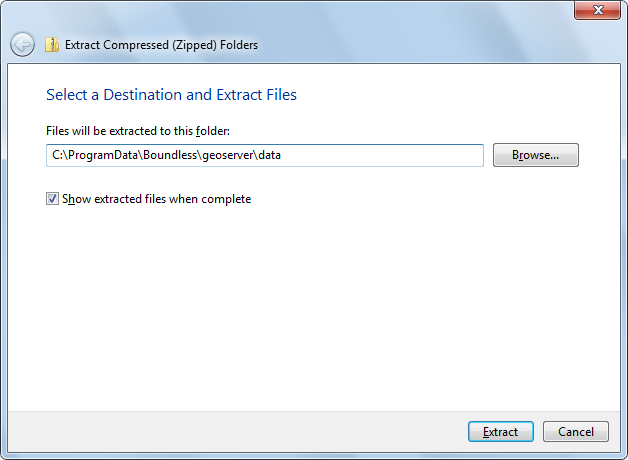
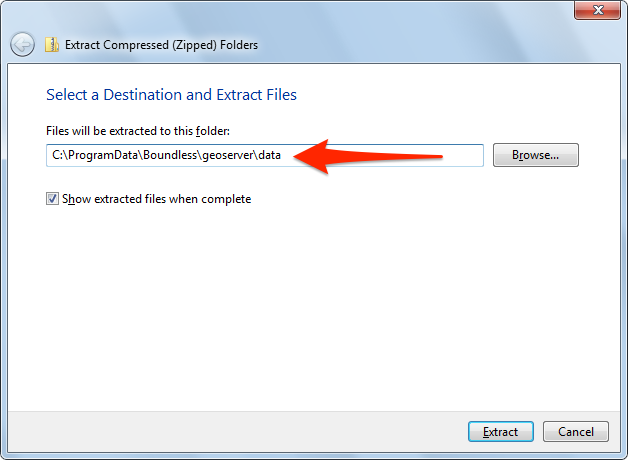
update in response to feedback

Changed region(s): [[0.4538, 0.3043, 0.7261, 0.3957]]

diff --git a/docs/usermanual/source/install/windows/tomcat/geoserver/data.rst b/docs/usermanual/source/install/windows/tomcat/geoserver/data.rst
@@ -18,7 +18,9 @@ Unpacking an empty geoserver data directory into :file:`C:\\ProgramData\\Boundle
       Extract all
 
 3. Type in the following extract location :file:`C:\\ProgramData\\Boundless\\geoserver\\data`.
-
+   
+   .. warning:: Please double check the above path
+   
    .. figure:: ../img/data_extract_destination.png
       :scale: 80% 
       
@@ -31,56 +33,19 @@ Unpacking an empty geoserver data directory into :file:`C:\\ProgramData\\Boundle
       
       New data directory
 
-Upgrading Boundless Suite
--------------------------
+Upgrading
+---------
 
-When upgrading from prior versions be advised that the data directory contents will updated in place when GeoServer is first started. 
+.. warning:: Please uninstall previous releases before proceeding, and be sure to backup your data directory. For more information see :ref:`install.windows.tomcat.before`.
 
-We advise making a backup of this configuration folder prior to upgrading:
+When upgrading make use of your existing data directory:
 
-1. Using :guilabel:`Windows Explorer` navigate to :file:`C:\\ProgramData\\Boundless\\geoserver` to show your :file:`data` directory.
-
-   .. figure:: ../img/upgrade_data.png
-      :scale: 80% 
-      
-      Boundless Suite Data directory
-
-2. Select the ``GEOSERVER_DATA_DIRECTORY`` folder and right click for the :menuselection:`Send to --> Compressed (zipped) folder` action.
-
-   .. figure:: ../img/upgrade_compressed.png
-      :scale: 80% 
-      
-      Compressed (zipped) folder
-      
-3. Confirm the file name for your new backup.
-
-   .. figure:: ../img/upgrade_backup.png
-      :scale: 80% 
-      
-      Backup data directory
-
-4. Your ``GEOSERVER_DATA_DIRECTORY`` in :file:`C:\\ProgramData\\Boundless\\geoserver\\data` can be used as is, the configuration files will be updated in place the first time GeoServer runs.
-
-Upgrading from OpenGeo Suite
-----------------------------
-
-.. warning:: These installation instructions do not cover the migration of PostGIS databases at this time.
-
-We advise making a backup of this configuration folder prior to upgrading:
-
-1. Shutdown all OpenGeo Suite services by navigating to :menuselection:`Start Menu --> All Programs --> OpenGeo Suite` and using the :guilabel:`Stop` shortcuts. 
-
-2. Using :guilabel:`Windows Explorer` navigate to your existing ``GEOSERVER_DATA_DIRECTORY`` located in :file:`C:\\ProgramData\\Boundless\\OpenGeo` .
-
-3. Select the ``GEOSERVER_DATA_DIRECTORY`` folder :file:`geoserver` and right click for the :menuselection:`Send to --> Compressed (zipped) folder` action.
-
-4. Confirm the file name for your new backup.
-
-5. Navigate to :menuselection:`Start Menu --> Programs --> OpenGeo Suite --> Uninstall`.
-
-   .. note:: Uninstallation is also available via the standard Windows program removal workflow (**Programs and Features** Control Panel entry for Windows 7/Vista.)
-
-6. Uninstalling will not delete your settings and data, which by default is located at :file:`C:\\ProgramData\\Boundless\\OpenGeo`:
+* Upgrading from OpenGeo Suite:
    
    * Your ``GEOSERVER_DATA_DIRECTORY`` in :file:`C:\\ProgramData\\Boundless\\OpenGeo\\geoserver` can be used as is, the configuration files will be updated in place the first time GeoServer runs.
    * Optionally, your ``GEOSERVER_DATA_DIRECTORY`` can be moved to :file:`C:\\ProgramData\\Boundless\\geoserver\\data`. If you take this step please review and correct any absolute file references to spatial data stored in ``GEOSERVER_DATA_DIRECTORY``.
+
+* Upgrading from an earlier version of Boundless Suite:
+  
+  * Your ``GEOSERVER_DATA_DIRECTORY`` in :file:`C:\\ProgramData\\Boundless\\geoserver\\data` can be used as is, the configuration files will be updated in place the first time GeoServer runs.
+

diff --git a/docs/usermanual/source/install/windows/tomcat/before.rst b/docs/usermanual/source/install/windows/tomcat/before.rst
@@ -1,0 +1,64 @@
+.. _install.windows.tomcat.before:
+
+Before you start
+================
+
+These instructions cover the installation of Java, the Tomcat Application Server and Boundless Suite components.
+
+When upgrading care must be taken to locate and backup the data directory and remove prior versions of the application.
+
+.. include:: include/sysreq.txt
+
+Upgrading from OpenGeo Suite
+----------------------------
+
+.. warning:: These installation instructions do not cover the migration of PostGIS databases at this time.
+
+We advise making a backup of this configuration folder prior to upgrading:
+
+1. Shutdown all OpenGeo Suite services by navigating to :menuselection:`Start Menu --> All Programs --> OpenGeo Suite` and using the :guilabel:`Stop` shortcuts. 
+
+2. Using :guilabel:`Windows Explorer` navigate to your existing ``GEOSERVER_DATA_DIRECTORY`` located in :file:`C:\\ProgramData\\Boundless\\OpenGeo` .
+
+3. Select the ``GEOSERVER_DATA_DIRECTORY`` folder :file:`geoserver` and right click for the :menuselection:`Send to --> Compressed (zipped) folder` action.
+
+4. Confirm the file name for your new backup.
+
+5. Navigate to :menuselection:`Start Menu --> Programs --> OpenGeo Suite --> Uninstall`.
+
+   .. note:: Uninstallation is also available via the standard Windows program removal workflow (**Programs and Features** Control Panel entry for Windows 7/Vista.)
+
+6. Uninstalling will not delete your settings and data, which by default is located at :file:`C:\\ProgramData\\Boundless\\OpenGeo`:
+   
+   * Your ``GEOSERVER_DATA_DIRECTORY`` in :file:`C:\\ProgramData\\Boundless\\OpenGeo\\geoserver` can be used as is, the configuration files will be updated in place the first time GeoServer runs.
+   * Optionally, your ``GEOSERVER_DATA_DIRECTORY`` can be moved to :file:`C:\\ProgramData\\Boundless\\geoserver\\data`. If you take this step please review and correct any absolute file references to spatial data stored in ``GEOSERVER_DATA_DIRECTORY``.
+
+Upgrading from Boundless Suite
+------------------------------
+
+When upgrading from a **prior version** be advised that the data directory contents will updated in place when GeoServer is first started. 
+
+We advise making a backup of this configuration folder prior to upgrading:
+
+1. Using :guilabel:`Windows Explorer` navigate to :file:`C:\\ProgramData\\Boundless\\geoserver` to show your :file:`data` directory.
+
+   .. figure:: img/upgrade_data.png
+      :scale: 80% 
+      
+      Boundless Suite Data directory
+
+2. Select the ``GEOSERVER_DATA_DIRECTORY`` folder and right click for the :menuselection:`Send to --> Compressed (zipped) folder` action.
+
+   .. figure:: img/upgrade_compressed.png
+      :scale: 80% 
+      
+      Compressed (zipped) folder
+      
+3. Confirm the file name for your new backup.
+
+   .. figure:: img/upgrade_backup.png
+      :scale: 80% 
+      
+      Backup data directory
+
+4. Your ``GEOSERVER_DATA_DIRECTORY`` in :file:`C:\\ProgramData\\Boundless\\geoserver\\data` can be used as is, the configuration files will be updated in place the first time GeoServer runs.

diff --git a/docs/usermanual/source/install/windows/tomcat/geoserver/performance.rst b/docs/usermanual/source/install/windows/tomcat/geoserver/performance.rst
@@ -21,11 +21,17 @@ We recommend installing the Java Cryptography Extension Unlimited Strength Juris
    
 2. Unzip the two jar files :file:`local_policy.jar` and :file:`US_export_policy.jar` file into your ``JRE_HOME`` :file:`lib` directory.  For Java 1.8.0 the file:`lib\\security` directory is located in :file:`C:\\Program Files (x86)\\Java\\jre1.8.0_101\\lib\\security`.
    
+   These files will overwrite the existing policy files.
+   
    .. figure:: ../img/java_cryptography_install.png
       :scale: 50%
       
       Installation of local_policy.jar and US_export_policy.jar
-      
+  
+  .. note:: You may find it easier to cut-and-paste the two files into the correct folder.
+
+3. Once GeoServer is installed, logging into the web application will list ``"Strong cryptography available``.
+
 Marlin Rasterizer Extension
 ---------------------------
 
@@ -34,22 +40,25 @@ We recommend making use of the Marlin Rasterizer for improved WMS performance:
 1. From the :file:`BoundlessSuite-ext` download open the :file:`marlin` folder.
 2. Copy the :file:`marlin-0.7.3-Unsafe.jar` to your Tomcat :file:`bin` folder. The file will be located in:
    
-   * :file:`C:\Program Files (x86)\Apache Software Foundation\Tomcat 8\bin\marlin-0.7.3-Unsafe.jar`
+   * :file:`C:\\Program Files (x86)\\Apache Software Foundation\\Tomcat 8\\bin\\marlin-0.7.3-Unsafe.jar`
    
    .. figure:: ../img/marlin_install.png
-      :scale: 80%
+      :scale: 50%
       
       Marlin Install
       
-3. Return to :guilabel:`Apache Tomcat Properties`, the :guilabel:`Java` tab, to add the following additional :guilabel:`Java Options`::
-     
-     -Xbootclasspath/a:C:\Program Files (x86)\Apache Software Foundation\Tomcat 8\bin\marlin-0.7.3-Unsafe.jar
-     -Dsun.java2d.renderer=org.marlin.pisces.PiscesRenderingEngine
-     -Dsun.java2d.renderer.useThreadLocal=false
+3. Return to :guilabel:`Apache Tomcat Properties`, the :guilabel:`Java` tab, to add the following additional :guilabel:`Java Options`:
+   
+   .. warning:: Please adjust the example below to match your version of tomcat (example Tomcat 8.5)
+   
+   .. literalinclude:: ../include/java_opts.txt
+      :language: bash
+      :start-after: # marlin
+      :end-before: # marlin end
   
   Press :guilabel:`Apply`.
   
-.. note:: Once GeoServer is installed visit the :guilabel:`Server Status` page to confirm the use of the Marlin Rasterizer. The :guilabel:`Java Rendering Engine` should be listed as ``org.marlin.pisces.PiscesRenderingEngine``.
+4. Once GeoServer is installed visit the :guilabel:`Server Status` page to confirm the use of the Marlin Rasterizer. The :guilabel:`Java Rendering Engine` will be listed as ``org.marlin.pisces.PiscesRenderingEngine``.
 
    .. figure:: ../img/geoserver_marlin.png
       

diff --git a/docs/usermanual/source/install/windows/tomcat/geoserver/install.rst b/docs/usermanual/source/install/windows/tomcat/geoserver/install.rst
@@ -38,15 +38,17 @@ GeoServer WAR Install
       .. literalinclude:: ../include/geoserver_upgrade.xml
          :language: xml
 
-#. Create the folder :file:`C:\ProgramData\Boundless\geoserver\tilecache` referenced above.
+#. Create the folder :file:`C:\\ProgramData\\Boundless\\geoserver\\tilecache` referenced above.
 
 #. Use :menuselection:`Start --> Apache Tomcat --> Tomcat Program Directory` to open the program directory, open the :file:`webapps` directory.
    
-   Copy the :file:`geoserver.war` into this folder to deploy.
+   Copy the :file:`geoserver.war` into the :file:`webapps` folder to deploy.
 
    .. figure:: ../img/geoserver_deploy.png
        
       Deploy of geoserver.war
+   
+   .. note:: The :file:`geoserver.war` is included in the *BoundlessSuite War Bundle* downloaded previously (see :ref:`install.windows.tomcat.bundle`).
 
 #. Change to the :guilabel:`General` tab and restart the service using the :guilabel:`Start` button.
    
@@ -54,7 +56,7 @@ GeoServer WAR Install
       
       Start Tomcat Service
       
-#. The :file:`geoserver.war` is extracted into the running :guilabel:`geoserver` web application visible in the :file:`webapps` folder.
+#. The :file:`geoserver.war` is deployed into a :guilabel:`geoserver` folder visible in the :file:`webapps` folder.
 
   .. note:: It will take a moment for Tomcat to notice the web application and make it available.
 

diff --git a/docs/usermanual/source/install/windows/tomcat/index.rst b/docs/usermanual/source/install/windows/tomcat/index.rst
@@ -3,33 +3,12 @@
 Windows Tomcat Suite Install
 ============================
 
-1. :ref:`install.windows.tomcat.java`
-
-2. :ref:`install.windows.tomcat.tomcat`
-
-3. :ref:`install.windows.tomcat.bundle`
-
-4. :ref:`install.windows.tomcat.geoserver`
-
-5. :ref:`install.windows.tomcat.dashboard` 
-
-6. :ref:`install.windows.tomcat.docs` 
-
-7. :ref:`install.windows.tomcat.composer`
-
-8. :ref:`install.windows.tomcat.quickview`
-
-9. :ref:`install.windows.tomcat.gwc`
-
-10. :ref:`install.windows.tomcat.wpsbuilder`
-
-**Additional Documentation**
-
-:ref:`glossary`
+Step-by-step instructions for setting up Java, the Tomcat Application Server and Boundless Suite applications on windows.
 
 .. toctree::
-   :hidden:
-
+   :maxdepth: 3
+   
+   before
    java
    tomcat
    bundle
@@ -40,5 +19,9 @@ Windows Tomcat Suite Install
    quickview
    geowebcache/index
    wpsbuilder
-   
-.. note:: For more information on Boundless Suite operation on windows see :ref:`sysadmin.windows`.
+
+**Additional Documentation**
+
+:ref:`glossary`
+
+:ref:`sysadmin.windows`

diff --git a/docs/usermanual/source/install/windows/tomcat/tomcat.rst b/docs/usermanual/source/install/windows/tomcat/tomcat.rst
@@ -112,10 +112,12 @@ The Tomcat Application server is used to host the Boundless Suite web applicatio
 
 13. Append the following additional :guilabel:`Java Options` to optimize memory management for the larger requests expected when working with geospatial data.
     
-    * :guilabel:`Java Options`::
-          
-          -XX:SoftRefLRUPolicyMSPerMB=36000
-          -XX:-UsePerfData
+    * :guilabel:`Java Options`:
+    
+      .. literalinclude:: include/java_opts.txt
+         :language: bash
+         :start-after: # memory
+         :end-before: # memory end
     
     .. figure:: img/tomcat_optimize.png
        :scale: 50% 
